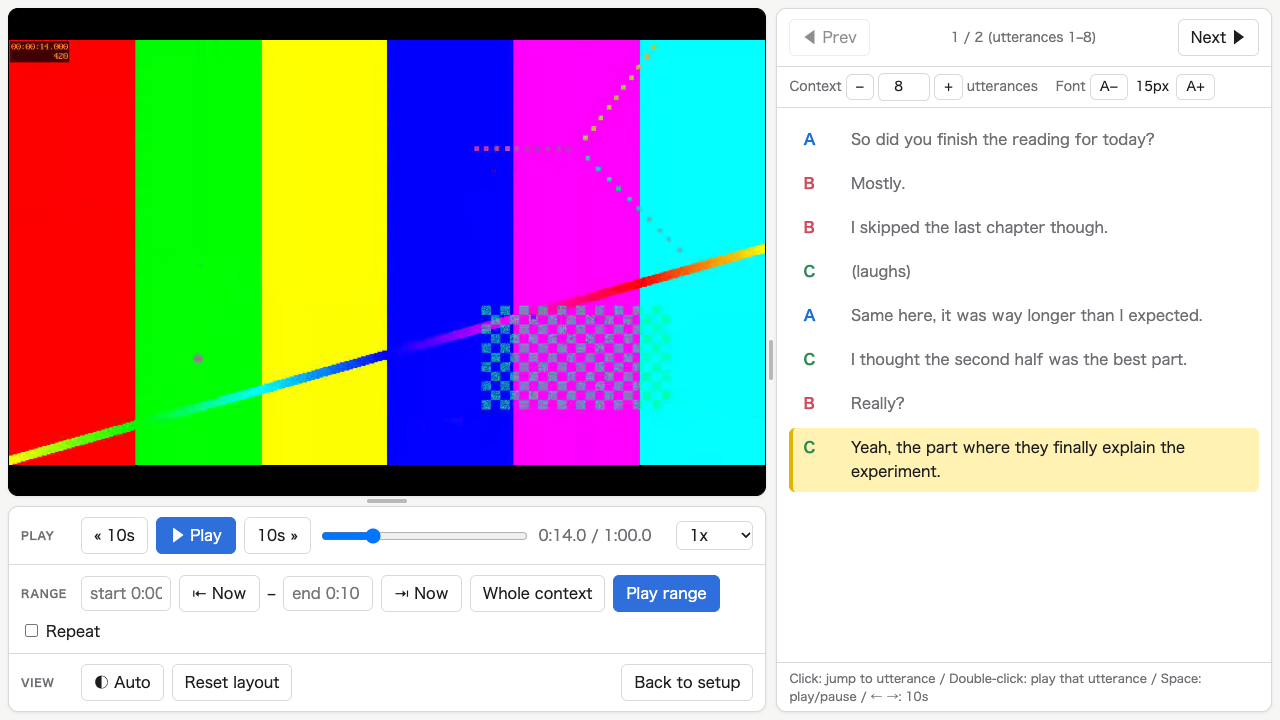
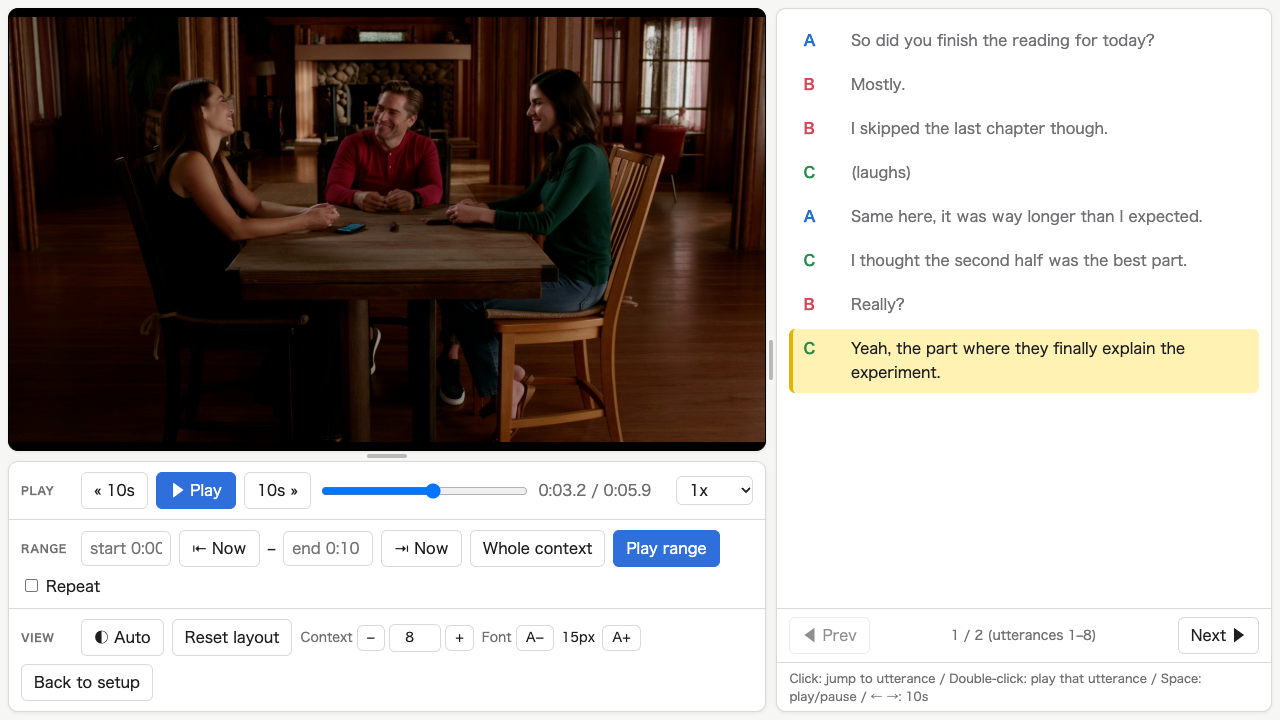
Rename to transcription-viewer.html, move view controls, update screenshot
- Context length and font size controls move to the View row
- Prev/Next block navigation moves below the transcript
- README screenshot uses a new sample video

diff --git a/transcription-viewer.html b/transcription-viewer.html
@@ -100,10 +100,9 @@
   body.dragging video { pointer-events: none; }
 
   #right { flex: 1 1 0; display: flex; flex-direction: column; }
-  #ctxHeader { display: flex; align-items: center; gap: 8px; padding: 10px 12px; border-bottom: 1px solid var(--border); flex-wrap: wrap; }
+  #ctxNav { display: flex; align-items: center; gap: 8px; padding: 8px 12px; border-top: 1px solid var(--border); }
   #ctxLabel { flex: 1; color: var(--muted); font-size: 13px; text-align: center; white-space: nowrap; }
-  #viewOpts { display: flex; align-items: center; gap: 18px; flex-wrap: wrap; padding: 6px 12px; border-bottom: 1px solid var(--border); font-size: 13px; color: var(--muted); }
-  .stepper { display: flex; align-items: center; gap: 4px; }
+  .stepper { display: flex; align-items: center; gap: 4px; font-size: 13px; color: var(--muted); }
   .stepper button { padding: 2px 9px; }
   .stepper .val { min-width: 40px; text-align: center; font-variant-numeric: tabular-nums; color: var(--text); }
   .stepper input.val { width: 52px; padding: 3px 4px; }
@@ -191,6 +190,14 @@
         <span class="paneTitle">View</span>
         <button class="themeBtn" title="Switch theme (Auto / Light / Dark)"></button>
         <button id="resetLayout" title="Reset panel sizes">Reset layout</button>
+        <span class="stepper" title="Number of utterances shown at once">
+          Context
+          <button id="ctxDown">−</button><input type="number" class="val" id="ctxLen" min="1" max="200"><button id="ctxUp">+</button>
+        </span>
+        <span class="stepper" title="Transcript font size">
+          Font
+          <button id="fontDown">A−</button><span class="val" id="fontSizeLabel"></span><button id="fontUp">A+</button>
+        </span>
         <span style="flex:1"></span>
         <button id="backToSetup">Back to setup</button>
       </div>
@@ -200,23 +207,12 @@
   <div class="splitter v" id="splitV" title="Drag to resize (double-click to reset)"></div>
 
   <div id="right" class="pane">
-    <div id="ctxHeader">
+    <div id="transcript"></div>
+    <div id="ctxNav">
       <button id="prevCtx">◀ Prev</button>
       <span id="ctxLabel"></span>
       <button id="nextCtx">Next ▶</button>
     </div>
-    <div id="viewOpts">
-      <span class="stepper" title="Number of utterances shown at once">
-        Context
-        <button id="ctxDown">−</button><input type="number" class="val" id="ctxLen" min="1" max="200"><button id="ctxUp">+</button>
-        utterances
-      </span>
-      <span class="stepper" title="Transcript font size">
-        Font
-        <button id="fontDown">A−</button><span class="val" id="fontSizeLabel"></span><button id="fontUp">A+</button>
-      </span>
-    </div>
-    <div id="transcript"></div>
     <div id="footHint">Click: jump to utterance / Double-click: play that utterance / Space: play/pause / ← →: 10s</div>
   </div>
 </div>

diff --git a/README.md b/README.md
@@ -2,13 +2,13 @@
 
 A single-file, browser-based viewer that plays a video side by side with its transcript and highlights the utterance being spoken right now.
 
-No installation needed: open `viewer.html` in a browser (Chrome, Edge or Safari) on macOS or Windows.
+No installation needed: open `transcription-viewer.html` in a browser (Chrome, Edge or Safari) on macOS or Windows.
 
 ![Viewer](docs/viewer.png)
 
 ## Quick start
 
-1. Open `viewer.html` (double-click it).
+1. Open `transcription-viewer.html` (double-click it).
 2. Choose a video file and a transcript CSV.
 3. Check the column mapping and time format (both are detected automatically) and press **Start**.
 
@@ -40,12 +40,12 @@ B,2.9,3.6,Mostly.
 
 ## Viewer
 
-- **Transcript context:** the transcript shows a fixed block of *N* utterances (the context length). When playback moves past the block, the next block replaces it. **Prev / Next** moves between blocks. Utterances being spoken are highlighted, and those already finished are dimmed.
+- **Transcript context:** the transcript shows a fixed block of *N* utterances (the context length). When playback moves past the block, the next block replaces it. **Prev / Next** below the transcript moves between blocks. Utterances being spoken are highlighted, and those already finished are dimmed.
 - **Playback:** play/pause, ±10 s, a seek bar, and playback speed.
 - **Range playback:** enter a start and end time, or fill them from the current position (**Now**) or the visible block (**Whole context**). Then press **Play range**, and tick **Repeat** to loop it. With Repeat on and no range playing, the whole video loops.
 - **Transcript interaction:** click an utterance to jump to it, or double-click it to play just that utterance.
 - **Layout:** drag the borders between the video, the control panel and the transcript to resize them. Double-click a border or press **Reset layout** to restore the default sizes.
-- **Context length and font size:** adjust them above the transcript (defaults: 10 utterances, 15 px).
+- **Context length and font size:** adjust them in the **View** row of the control panel (defaults: 10 utterances, 15 px).
 - **Theme:** Auto (follows the OS), Light or Dark.
 - Layout, context length, font size and theme are remembered by the browser.
 
